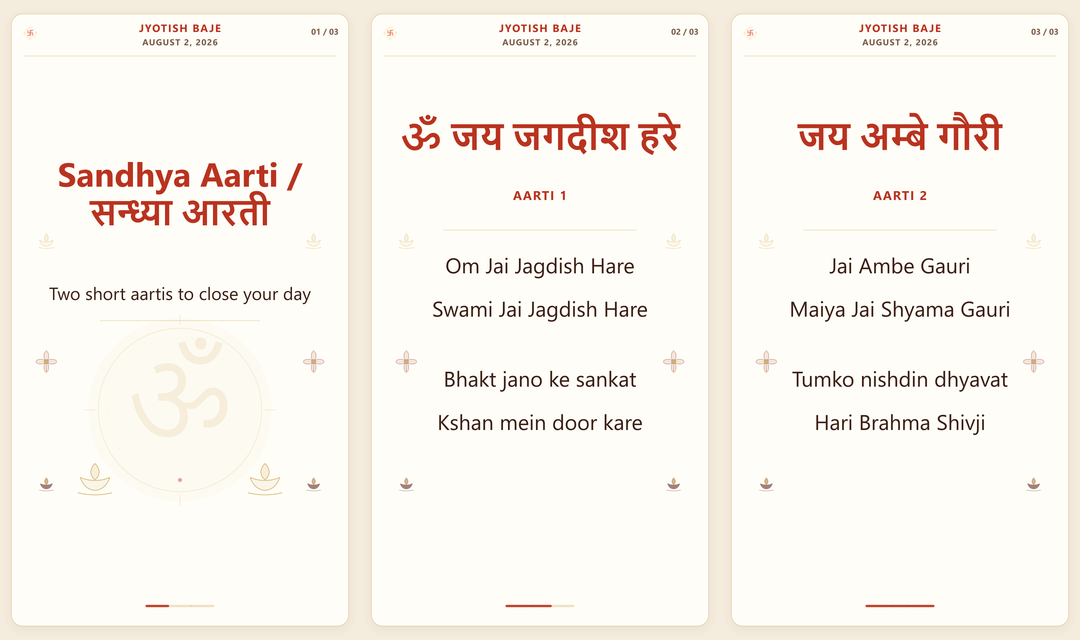
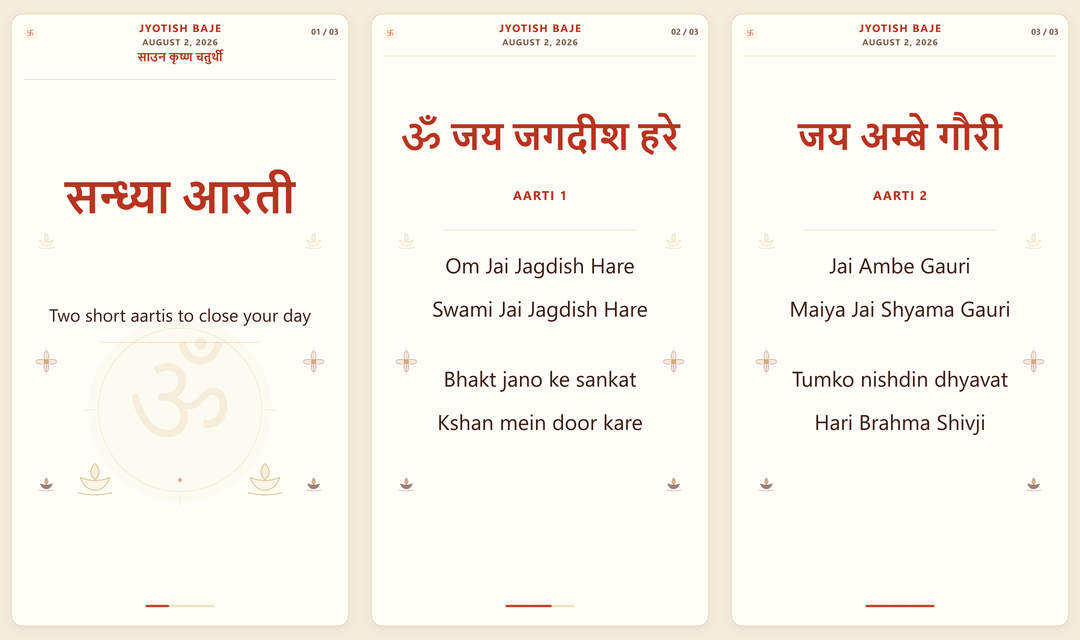
Add Nepali tithi to aarti intro

Changed region(s): [[0.0306, 0.25, 0.275, 0.375], [0.0306, 0.4375, 0.3056, 0.5], [0.1222, 0.0625, 0.2139, 0.125]]

diff --git a/Instagram/2026-08-02/evening-aarti/README.md b/Instagram/2026-08-02/evening-aarti/README.md
@@ -3,6 +3,7 @@
 Three-slide evening aarti package for Instagram and TikTok in the light cream app-style Rashifal layout.
 
 - Slide 1: `Sandhya Aarti / सन्ध्या आरती` intro
+- Slide 1 also shows the bold Nepali tithi `साउन कृष्ण चतुर्थी` at the top
 - Slide 2: short `Om Jai Jagdish Hare` aarti in two paragraph blocks, with an enlarged Devanagari title and English verses
 - Slide 3: short `Jai Ambe Gauri` aarti in two paragraph blocks, with an enlarged Devanagari title and English verses
 - The `JYOTISH BAJE` and date use the slightly larger size preference
